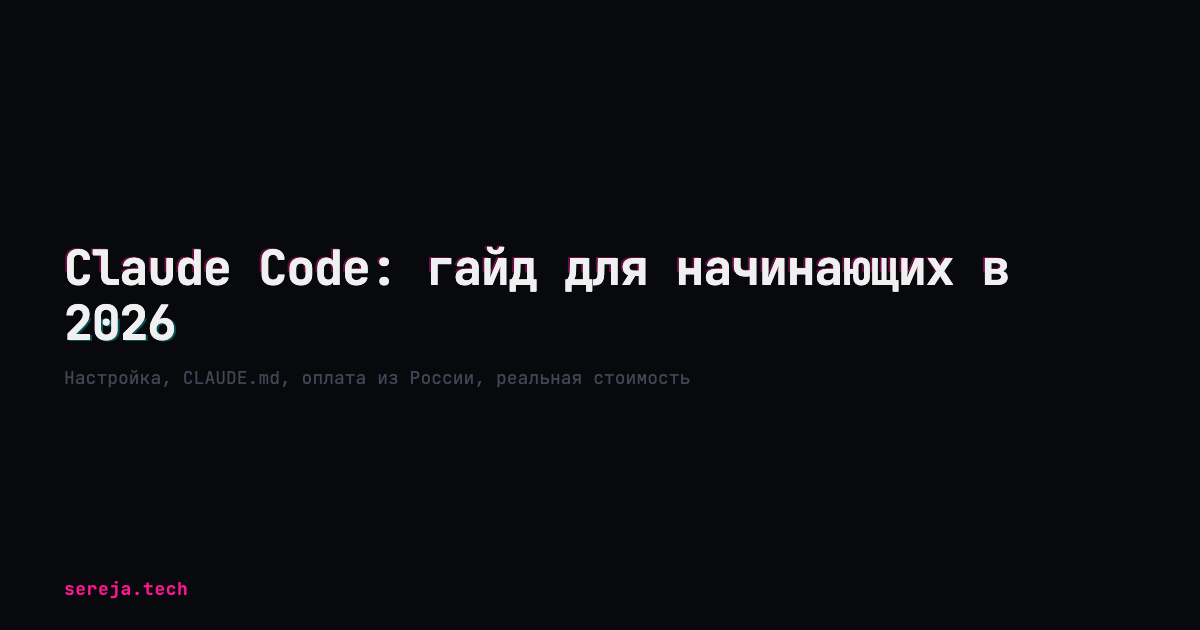
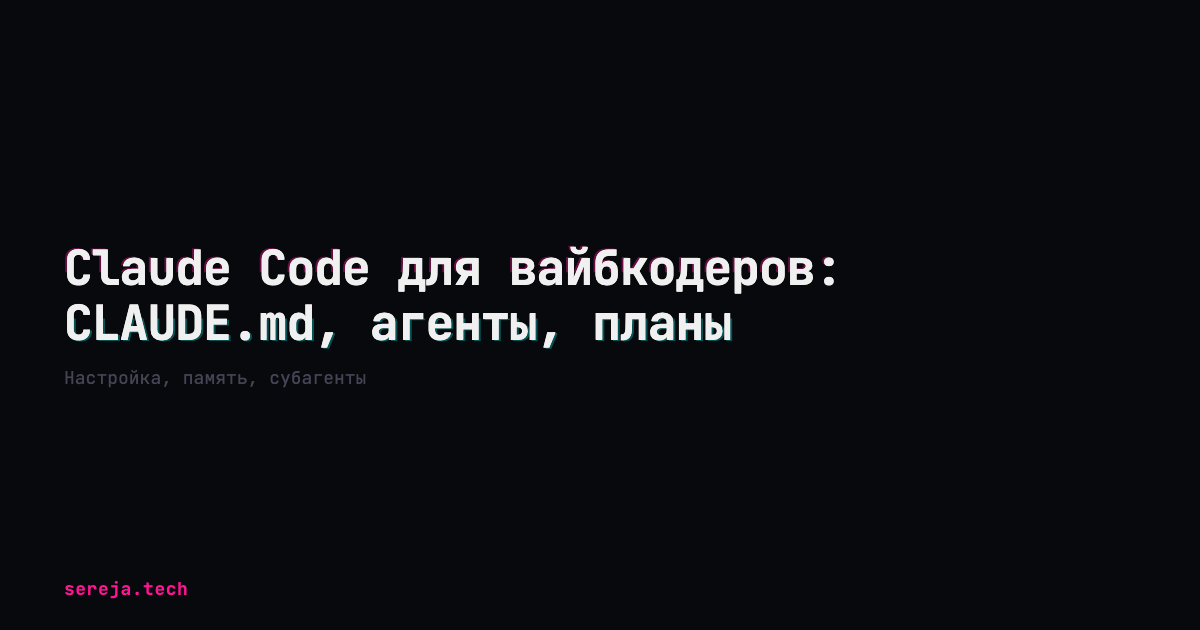
feat(blog): update title and OG image for claude-code-guide-2026
Update title to "Claude Code для вайбкодеров: CLAUDE.md, агенты, планы"
and regenerate OG preview image to match.

diff --git a/content/blog/claude-code-guide-2026.md b/content/blog/claude-code-guide-2026.md
@@ -1,5 +1,5 @@
 ---
-title: "Claude Code: гайд для начинающих в 2026"
+title: "Claude Code для вайбкодеров: CLAUDE.md, агенты, планы"
 date: 2026-03-28
 description: "Как пользоваться Claude Code — от первого промпта до параллельных агентов. Настройка, CLAUDE.md, оплата из России, реальная стоимость."
 tags: ["claude code", "вайбкодинг", "гайд", "настройка"]
